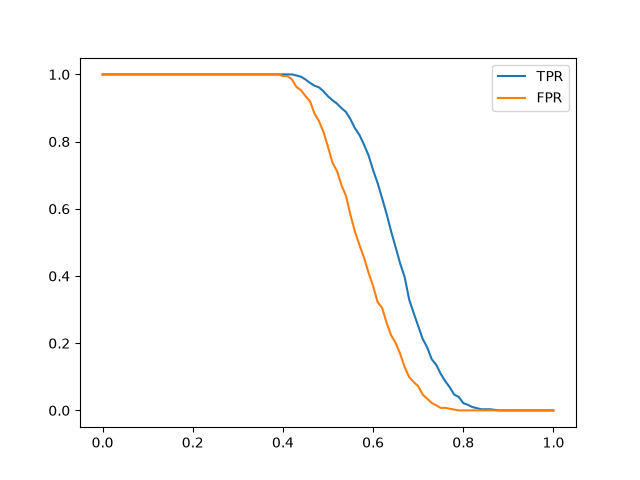
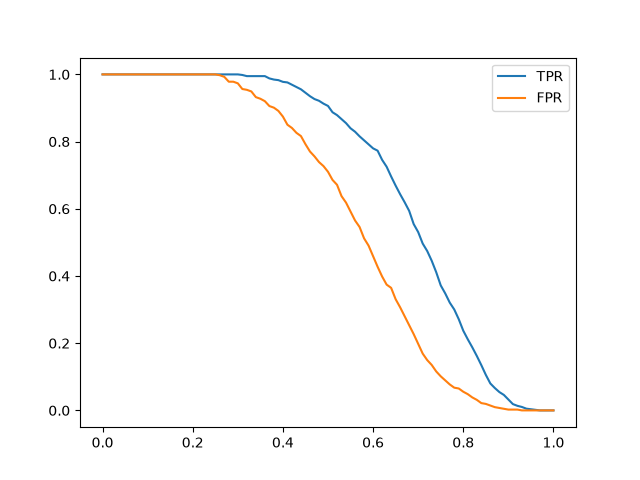
Finalised Homework 4

diff --git a/src/Homework4/main.py b/src/Homework4/main.py
@@ -8,6 +8,8 @@ from sklearn.metrics import auc
 from sklearn.metrics import accuracy_score
 from sklearn.model_selection import KFold
 
+from tqdm.auto import tqdm
+
 from Homework3.ClassificationUtils import *
 
 df = pd.read_csv('data/course_lead_scoring_2026.csv')
@@ -30,7 +32,7 @@ NUMERICAL = [
 for c in list(df.dtypes.index):		
 	df[c] = df[c].fillna('NA') if c in CATEGORIAL else df[c].fillna(0.0)
 	
-df_train, df_val, df_test = ClassificationUtils.split_data(df)
+df_full_train, df_train, df_val, df_test = ClassificationUtils.split_data(df)
 y_train, y_val, y_test = ClassificationUtils.prepare_target(df_train, df_val, df_test, 'converted')
 df_train, df_val, df_test = ClassificationUtils.prepare_data(df_train, df_val, df_test, 'converted')
 
@@ -62,9 +64,11 @@ for t in thresholds:
 	fp = (predict_positive & actual_negative).sum()
 	fn = (predict_negative & actual_positive).sum()
 	
-	scores.append((t, tp, fp, fn, tn))
+	f1 = 2 * tp / (2 * tp + fp + fn) if (2 * tp + fp + fn) > 0 else 0
+	
+	scores.append((t, tp, fp, fn, tn, f1))
 
-columns = ['threshold', 'tp', 'fp', 'fn', 'tn']
+columns = ['threshold', 'tp', 'fp', 'fn', 'tn', 'f1']
 df_scores = pd.DataFrame(scores, columns=columns)
 
 df_scores['tpr'] = df_scores.tp / (df_scores.tp + df_scores.fn)
@@ -83,24 +87,31 @@ y_ideal_pred = np.linspace(0, 1, len(y_val))
 
 print(f" \n# 3. IDEAL { accuracy_score(y_ideal, y_ideal_pred >= (1 - y_val.mean())) } at Threshold ({ 1 - y_val.mean()})")
 
-f1 = np.zeros((2, 100))
-	
-for t in thresholds:
-	actual_positive = (y_val == 1)
-	actual_negative = (y_val == 0)
-	
-	predict_positive = (y_pred >= t)
-	predict_negative = (y_pred < t)
+print(f"\n# 4. Max F1 at { df_scores.f1.max() }")
 
-	tp = (predict_positive & actual_positive).sum()
-	tn = (predict_negative & actual_negative).sum()
+scores = []
 
-	fp = (predict_positive & actual_negative).sum()
-	fn = (predict_negative & actual_positive).sum()
+for C in [0.000001, 0.001, 1]:
+	kfold = KFold(n_splits=5, shuffle=True, random_state=1)
+
+	for train_idx, val_idx in kfold.split(df_full_train):
+		df_train_k = df_full_train.iloc[train_idx]
+		df_val_k = df_full_train.iloc[val_idx]
 	
-	precision = tp / (tp + fp)
-	recall = tp / (tp + fn)
-	result = 2 * (precision * recall) / (precision + recall)
-	print(f" {t} { round(result, 5)} ")
-	np.append(f1, [result, t])
+		y_train_k = df_train_k.converted.values
+		y_val_k = df_val_k.converted.values
+	
+		del df_train_k['converted']
+		del df_val_k['converted']
+	
+		dv, model = ClassificationUtils.train(df_train_k, y_train_k, C)
+		y_pred_k = ClassificationUtils.predict(df_val_k, dv, model)
+	
+		auc = roc_auc_score(y_val_k, y_pred_k)
+		scores.append(auc)
+
+	print('C=%s %.5f +- %.5f' % (C, np.mean(scores), np.std(scores)))
+
+
+# for C in tqdm([0.001, 0.007, 0.013, 0.06]):
 	

diff --git a/src/Homework3/ClassificationUtils.py b/src/Homework3/ClassificationUtils.py
@@ -17,14 +17,14 @@ class ClassificationUtils:
 		
 	@staticmethod
 	def split_data(df):
-		df_full_train, df_test = train_test_split(df, test_size=0.2, random_state=42)
-		df_train, df_val = train_test_split(df_full_train, test_size=0.25, random_state=42)
+		df_full_train, df_test = train_test_split(df, test_size=0.2, random_state=1)
+		df_train, df_val = train_test_split(df_full_train, test_size=0.25, random_state=1)
 		
 		df_train = df_train.reset_index(drop=True)
 		df_val = df_val.reset_index(drop=True)
 		df_test = df_test.reset_index(drop=True)
 		
-		return df_train, df_val, df_test
+		return df_full_train, df_train, df_val, df_test
 		
 	@staticmethod
 	def prepare_target(df_train, df_val, df_test, column):
@@ -55,7 +55,7 @@ class ClassificationUtils:
 		
 	@staticmethod
 	def train_model(X_train, y_train, X_val, y_val, c):
-		model = LogisticRegression(solver='liblinear',C=c, max_iter=1000)
+		model = LogisticRegression(solver='liblinear',C=1.0, max_iter=1000)
 		model.fit(X_train, y_train)
 		
 		y_pred = model.predict_proba(X_val)[:, 1]
@@ -71,3 +71,22 @@ class ClassificationUtils:
 		X_val = ClassificationUtils.ohe_data(df_val, dv, False)
 		
 		return ClassificationUtils.train_model(X_train, y_train, X_val, y_val, c)
+	
+	@staticmethod	
+	def train(df_train, y_train, C):
+		dicts = df_train.to_dict(orient='records')
+	
+		dv = DictVectorizer(sparse=False)
+		X_train = dv.fit_transform(dicts)
+	
+		model = LogisticRegression(solver='liblinear', C=C, max_iter=1000)
+		model.fit(X_train, y_train)
+	
+		return dv, model
+		
+	@staticmethod
+	def predict(df, dv, model):
+		dicts = df.to_dict(orient='records')
+	
+		X = dv.transform(dicts)
+		return model.predict_proba(X)[:, 1]
